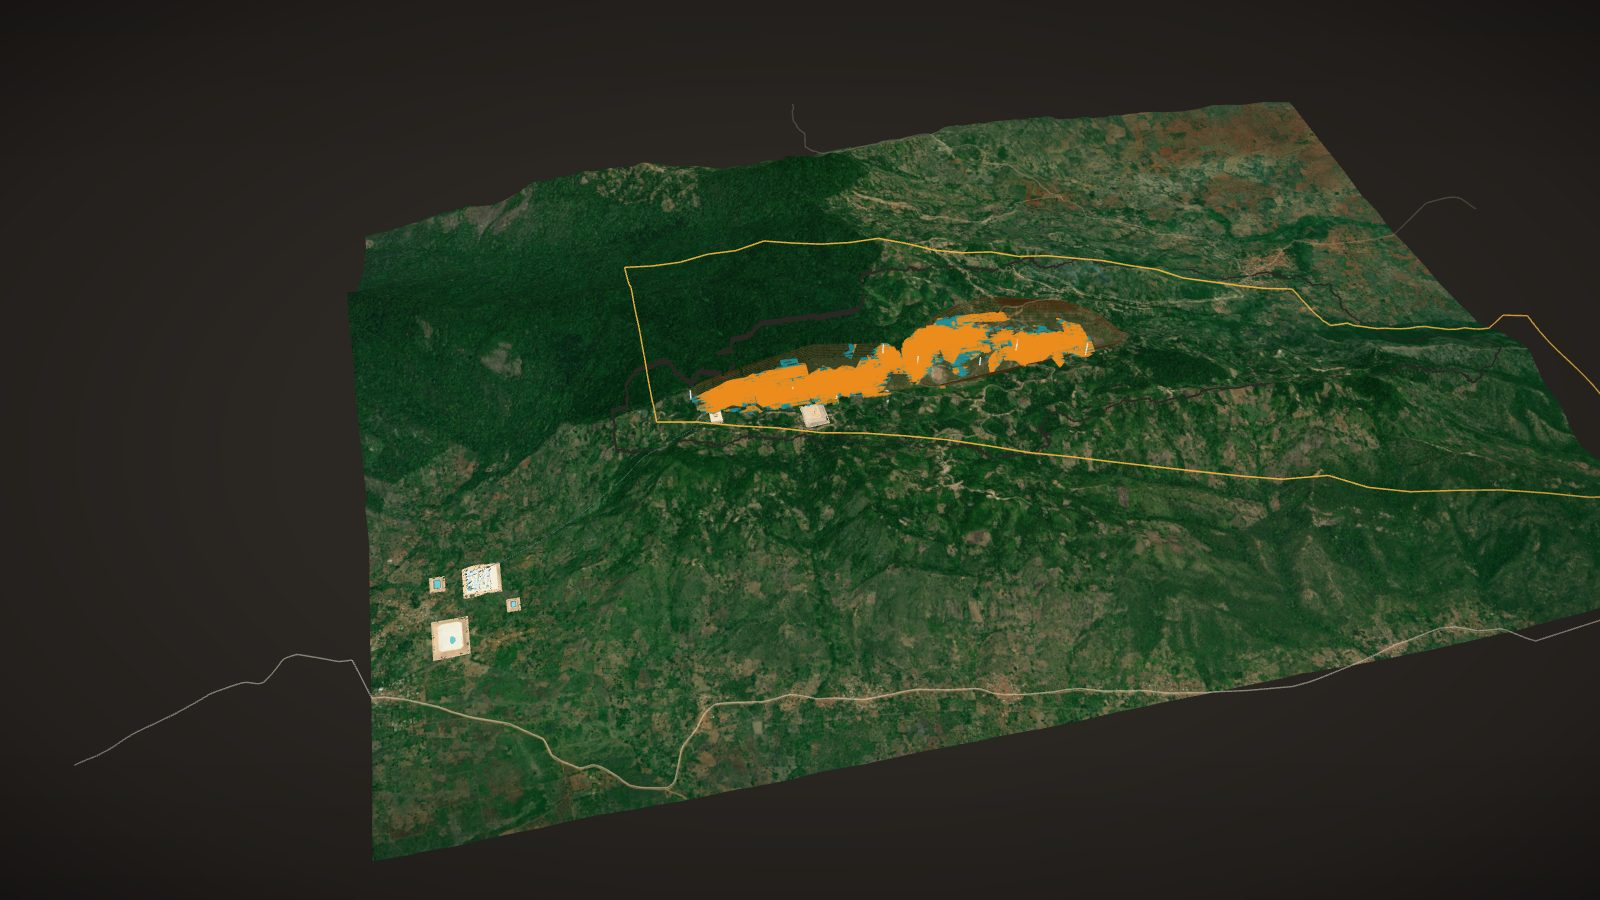
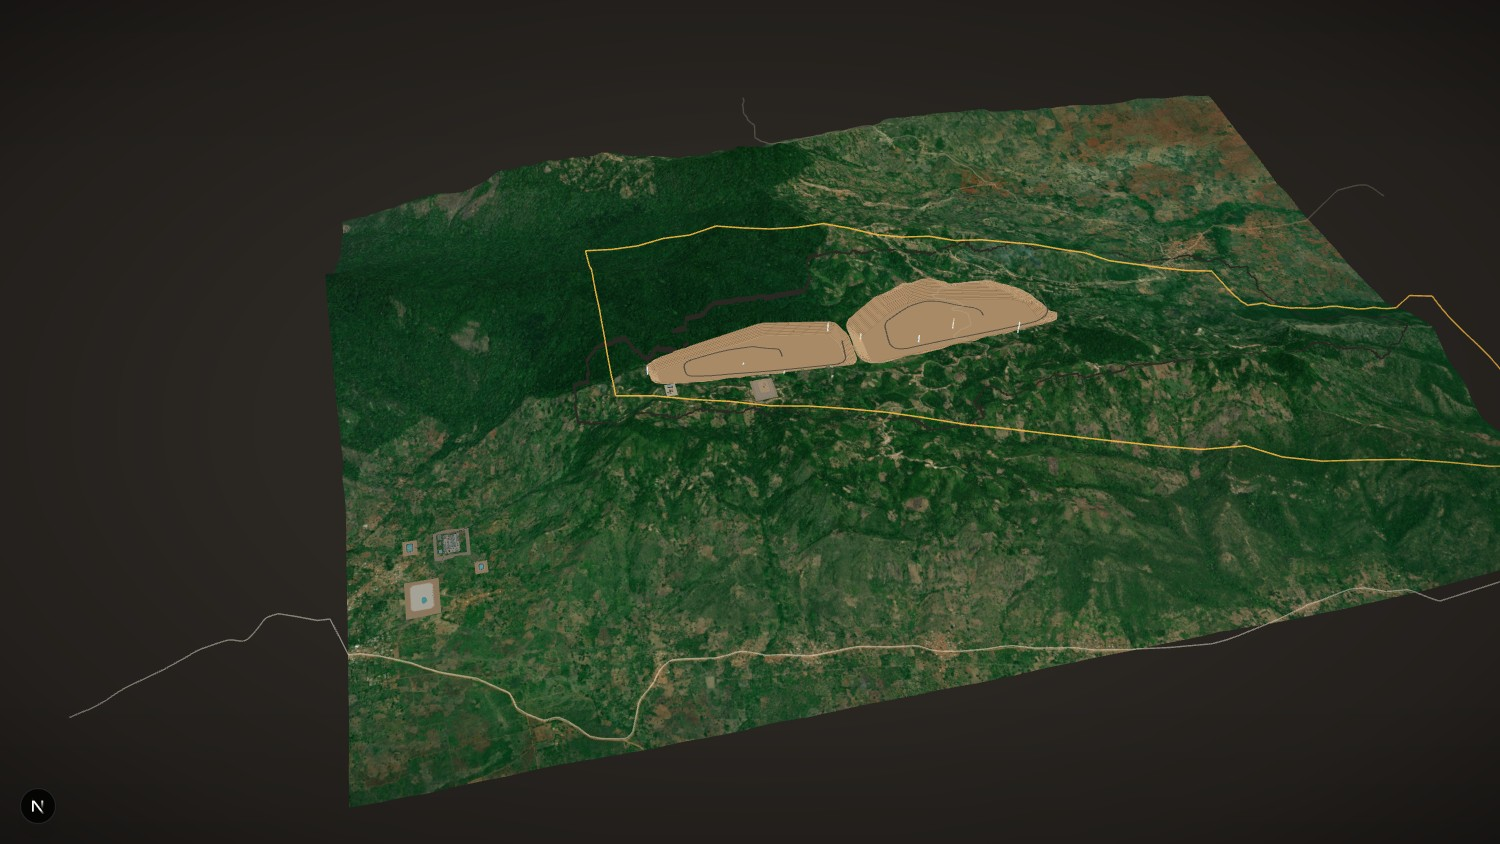
Refresh mine planning loading preview

Changed region(s): [[0.4293, 0.3081, 0.7053, 0.4929], [0.2453, 0.6161, 0.3373, 0.7393]]

diff --git a/src/components/TangaDeckWorkbench.tsx b/src/components/TangaDeckWorkbench.tsx
@@ -899,9 +899,9 @@ const STATIC_SCENE_FALLBACKS: Partial<Record<WorkbenchMode, {src: string; alt: s
     note: 'Displayed resource model · saved scene view',
   },
   mine_planning: {
-    src: '/presentation-assets/tanga-fallback-mine-planning.jpg',
-    alt: 'Static view of the Tanga conceptual mine layout and illustrative site facilities.',
-    note: 'Conceptual mine layout · saved scene view',
+    src: '/presentation-assets/tanga-fallback-mine-planning.jpg?v=2026-10-24-1',
+    alt: 'Tanga terrain with two conceptual pit envelopes and proposed facility pads; no resource blocks are draped over the surface.',
+    note: 'Mine-plan terrain preview · saved scene view',
   },
 };
 

diff --git a/docs/TANGA_NEXT_PHASE_PLAN_2026-10-23.md b/docs/TANGA_NEXT_PHASE_PLAN_2026-10-23.md
@@ -74,6 +74,7 @@ Use restrained dark panels, warm white typography, the existing copper brand acc
 - [x] Exercise orbit, below-ground camera, zoom, reset, direct chapter entry and rapid chapter switching. The authored geology camera being overwritten by a generic startup tween was reproduced and fixed; initial 390 px and desktop chapter entry now retain their authored views. On the local production build, mine-planning direct entry reached `data-ready=true`; orbit changed bearing 81° → 337°; wheel zoom changed camera distance 11,951 m → 9,276 m; the below-ground preset changed camera position, and Reset restored the exact authored position, target and distance. Four rapid geology/mine-planning chapter changes returned to a ready mine scene with no alert and no JavaScript errors. This closes desktop navigation coverage only; stale async update and mobile interaction cases remain open below / in the device review.
 - [x] Introduce in-place scene retry, visible loading stages and a chapter-specific static fallback from the actual project scene. Keep explanation and navigation usable when WebGL or assets fail. Five project scenes use saved rendered stills; metallurgy uses the original analytical table. A forced model 503 showed the still, story panel, pager and retry; after removing the failure, retry returned to `3DReady`. Simulated WebGL loss in the geology scene and metallurgy showed the appropriate still/evidence view; context restoration returned both to usable renderers. At 390 × 844 the fallback image loaded without horizontal overflow. See `TANGA_STATIC_FALLBACKS_2026-10-23.md`.
   - [x] Show each available report-matched scene still during its long 3D loading phase, then replace it when the live canvas reaches `data-ready=true`. On a cache-bypassed Resource entry the saved block-model view appeared while the canvas remained hidden; its status caption did not overlap the evidence-step navigation at 1707 × 842. The still cleared when all 155,853 source blocks reached ready. Typecheck passed; captures: `.playwright-mcp/resource-loading-static-preview-final.png` and the ready Resource captures in `docs/TANGA_VIEWER_BASELINE_2026-10-23.md`.
+  - [x] Replace the Mine Planning loading still that showed grade blocks across the land surface with a clean frame from the ready, block-hidden overview. At 1500 × 844 the source showed the natural terrain, two conceptual pit envelopes and facility pads without implying that resource cells sit on topography. The fallback alt text and caption now describe the content and its limits. It retains the same image path, so the existing in-place loading/error fallback behavior is unchanged. Capture: `.playwright-mcp/mine-plan-fallback-candidate-1500x844.jpg`.
 - [x] Make asset fetches deduplicate and cancel or ignore obsolete work safely; failed promises must be retryable. Check shared asset ownership before changing disposal.
   - [x] Audit confirms fixed public assets and chapter-level data promises are deduplicated; fetch failures clear the relevant terrain, block, drillhole and optional-data promise for retry. Scene build work checks its cancelled flag after asynchronous boundaries.
   - [x] Cancel the deferred terrain-upgrade scheduler on scene teardown, guard its callback before it starts work, and catch upgrade failures so an existing surface remains ready where retained; otherwise expose the scene error for the existing retry/fallback path. Production build and rapid desktop chapter-switch smoke passed. Follow-up desktop Chromium recovery probe forced the first `/api/block-model` request to return 503 in Mine Planning; the scene exposed Retry, issued a second request, cleared its error overlay and reached `data-ready=true`. The sole console error was the deliberately injected 503; no browser alert remained. Capture: `.playwright-mcp/blockmodel-retry-recovery-ready.png`.
